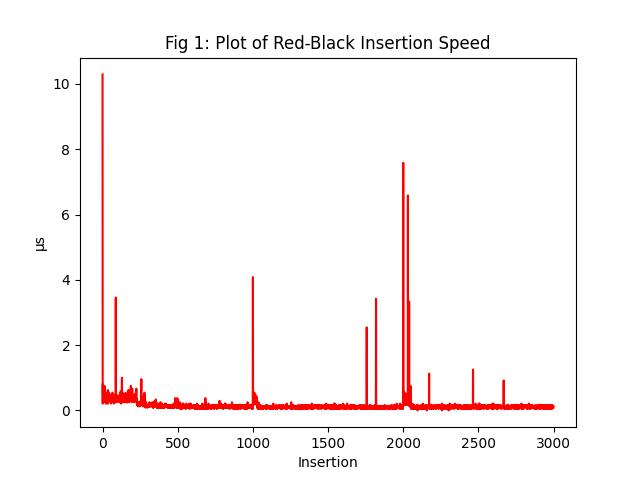
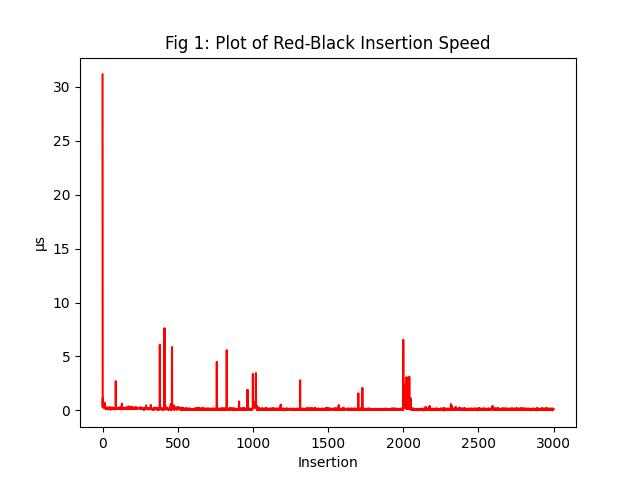
update to plot.py

diff --git a/plot.py b/plot.py
@@ -1,11 +1,17 @@
 import matplotlib.pyplot as plt
 import numpy as np
 
-def convert_to_time(t_str):
-    t_num = np.zeros(len(t_str))
-    for idx, time in enumerate(t_str):
-        t_num[idx] = float(time[:-2])
-    return t_num
+def convert_to_time(t_str, pos=0):
+    if pos == len(t_str):
+        return np.array(t_str, dtype = float)
+
+    if not isinstance(t_str[pos], list):
+        t_num = [float(time[:-2]) for time in t_str]
+        return np.array(t_num, dtype = float)
+
+    else:
+        t_str[pos] = [float(time[:-2]) for time in t_str[pos]]
+        return convert_to_time(t_str, pos+1)
 
 if __name__ == "__main__":
     
@@ -14,18 +20,22 @@ if __name__ == "__main__":
     with open("output/bst_runtime.txt", 'r') as bst_file:
         bst_rt = bst_file.read().split(',')
 
-    with open('output/rbt_sim.txt', 'r') as rbt_file:
-        rbt_sim = rbt_file.read().splitlines()
+    with open('output/rbt_sim.txt', 'r') as rbt_file_sim:
+        rbt_sim = rbt_file_sim.read().splitlines()
 
-    with open('output/rbt_sim.txt', 'r') as bst_file:
-        bst_sim = bst_file.read().splitlines()
+    with open('output/bst_sim.txt', 'r') as bst_file_sim:
+        bst_sim = bst_file_sim.read().splitlines()
 
-    rbt_sim_rf = []
-    for idx, s in enumerate(rbt_sim):
-        rbt_sim_rf.append(s.split(','))
 
     rbt_rt = convert_to_time(rbt_rt)
     bst_rt = convert_to_time(bst_rt)
+
+    rbt_sim = convert_to_time([s.split(',') for s in rbt_sim])
+    bst_sim = convert_to_time([s.split(',') for s in bst_sim])
+
+    print(np.mean(rbt_sim, axis=1))
+    print(np.mean(bst_sim, axis=1))
+
 
     plt.figure(1)
     plt.plot(rbt_rt, color = 'r')
@@ -40,6 +50,8 @@ if __name__ == "__main__":
     plt.xlabel('Insertion')
     plt.ylabel('μs')
     plt.savefig('./plots/Binary_Search_time.jpg')
+
+
 
     plt.show()
 
